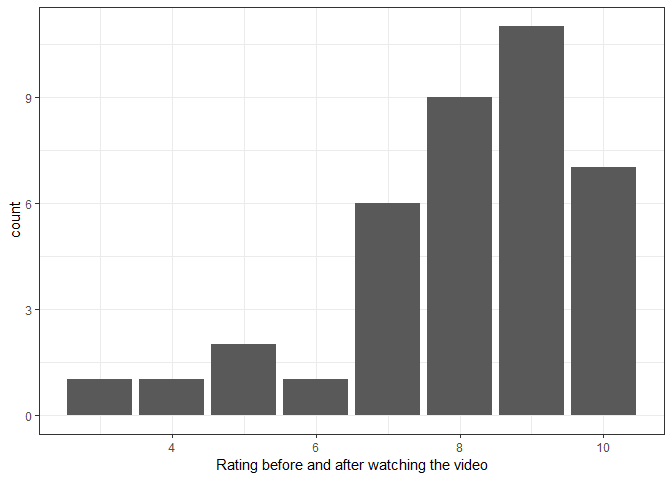
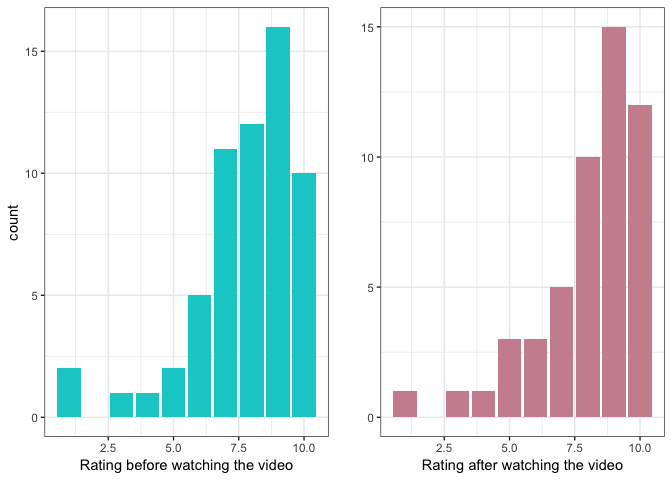
Fix the plot using gridExtra

diff --git a/Milestone2/Milestone2_EDA.md b/Milestone2/Milestone2_EDA.md
@@ -3,17 +3,20 @@ Milestone2\_EDA
 Wilson D., Marcelle C. Kera Y. Heather VT.
 4/5/2019
 
-This dataset is aimed to answer the question "Does a personâs frequency of recycling influence her/his opinion and attitudes towards the importance of sustainability?". The description of columns as follows:
+This dataset is aimed to answer the question “Does a person’s frequency
+of recycling influence her/his opinion and attitudes towards the
+importance of sustainability?”. The description of columns as follows:
 
--   `Q1_1`: How important is being environmentally sustainable to you on a scale from 1-10?
--   `Q2`: How often do you generally recycle?
--   `Q3`: What is your age group?
--   `Q4`: Did you grow up in an environmentally-conscious family?
--   `Q5`: Will you watch the video?
--   `Q6_1`: After watching this video about recycling, how important is sustainability to you on a self-ranked scale from 1-10 scale?
+  - `Q1_1`: How important is being environmentally sustainable to you on
+    a scale from 1-10?
+  - `Q2`: How often do you generally recycle?
+  - `Q3`: What is your age group?
+  - `Q4`: Did you grow up in an environmentally-conscious family?
+  - `Q5`: Will you watch the video?
+  - `Q6_1`: After watching this video about recycling, how important is
+    sustainability to you on a self-ranked scale from 1-10 scale?
 
-Load Data
-=========
+# Load Data
 
 ``` r
 #tidy data and give correct data type
@@ -55,19 +58,32 @@ summary(tidy_data)
     ##  NA's   :9
 
 > Analyzing the summary table, we noticed:
->
-> **Q1\_1: How important is being environmentally sustainable to you on a scale from 1-10?**: on average, people rated sustainability as a 7.7 initially. **Q2: How often do you generally recycle?**:
->
-> **Q3: What is your age group?**: 60% of the participants are from the younger groups, having 20-29 years old. We had a considerable amount of people with 40+, but only 5% of the respondents are 35-39 years old.
->
-> **Q4: Did you grow up in an environmentally-conscious family?**: 46.7% of the respondents grow up in an environmentally-conscious family.
->
-> **Q5: Will you watch the video?**: Only 63% of the respondents confirmed that they watched the video.
->
-> **Q6\_1: After watching this video about recycling, how important is sustainability to you on a self-ranked scale from 1-10 scale?**: The self rank about sustainability importance after watching the video had a slightly higher mean and median than the first one (9 and 8.1 vs. 8 and 7.8, respectively). However, some people who didn't watch the video answered the last question, since we had 15 respondents who said on Q5 that they passed the video, and only 9 participants answered NA to Q6\_1. Weird.
+> 
+> **Q1\_1: How important is being environmentally sustainable to you on
+> a scale from 1-10?**: on average, people rated sustainability as a 7.7
+> initially. **Q2: How often do you generally recycle?**:
+> 
+> **Q3: What is your age group?**: 60% of the participants are from the
+> younger groups, having 20-29 years old. We had a considerable amount
+> of people with 40+, but only 5% of the respondents are 35-39 years
+> old.
+> 
+> **Q4: Did you grow up in an environmentally-conscious family?**: 46.7%
+> of the respondents grow up in an environmentally-conscious family.
+> 
+> **Q5: Will you watch the video?**: Only 63% of the respondents
+> confirmed that they watched the video.
+> 
+> **Q6\_1: After watching this video about recycling, how important is
+> sustainability to you on a self-ranked scale from 1-10 scale?**: The
+> self rank about sustainability importance after watching the video had
+> a slightly higher mean and median than the first one (9 and 8.1 vs. 8
+> and 7.8, respectively). However, some people who didn’t watch the
+> video answered the last question, since we had 15 respondents who said
+> on Q5 that they passed the video, and only 9 participants answered NA
+> to Q6\_1. Weird.
 
-Explanatary Data Analysis
-=========================
+# Explanatary Data Analysis
 
 ``` r
 tidy_data %>% 
@@ -81,9 +97,14 @@ tidy_data %>%
   theme(axis.text.x = element_text(angle = 45, hjust = 1))
 ```
 
-![](Milestone2_EDA_files/imgs/plot%20family%20vs.%20frequency-1.png)
+![](Milestone2_EDA_files/imgs/plot%20family%20vs.%20frequency-1.png)<!-- -->
 
-> As we can see from the above plot, most of our respondent have a good recycling habit whether or not they live in a environmentally-consicous family. However, if one respondent did not grow up in an environmentally-conscious family then he/she may not recycle at all.
+> As we can see from the above plot, most of our respondent have a good
+> recycling habit whether or not they live in a
+> environmentally-consicous family. However, if one respondent did not
+> grow up in an environmentally-conscious family then he/she may not
+> recycle at
+    all.
 
 ``` r
 tidy_data$Q3
@@ -107,7 +128,7 @@ ggplot(tidy_data, aes(Q3)) +
 
     ## Warning: Ignoring unknown parameters: binwidth, bins, pad
 
-![](Milestone2_EDA_files/imgs/age%20distribution-1.png)
+![](Milestone2_EDA_files/imgs/age%20distribution-1.png)<!-- -->
 
 ``` r
 qplot(tidy_data$Q3, tidy_data$Q1_1, geom="boxplot") +
@@ -121,9 +142,18 @@ qplot(tidy_data$Q3, tidy_data$Q1_1, geom="boxplot") +
        axis.title = element_text(size = 13))
 ```
 
-![](Milestone2_EDA_files/imgs/plot%20age%20group%20vs.%20sustainability%20importance%20before%20watching%20the%20video-1.png)
+![](Milestone2_EDA_files/imgs/plot%20age%20group%20vs.%20sustainability%20importance%20before%20watching%20the%20video-1.png)<!-- -->
 
-> Analyzing the boxplots above is easy to see that older people (`35-39` and `40+` groups) consider sustainability more important than younger groups, having a higher mean (~9 in a scale from 1-10) and narrower range. Additionaly, the other 3 groups (`20-24`, `25-29` and `30-34`) have one outlier each, where at least one respondent of each of these groups evaluated sustainability with a considerable lower importance in comparison with the other participants from their respective group. However, it's important to take into account that we have fewer responses from the second oldest age group, which can distort the analysis. Further analysis with confidence intervals is warranted.
+> Analyzing the boxplots above is easy to see that older people (`35-39`
+> and `40+` groups) consider sustainability more important than younger
+> groups, having a higher mean (~9 in a scale from 1-10) and narrower
+> range. Additionaly, the other 3 groups (`20-24`, `25-29` and `30-34`)
+> have one outlier each, where at least one respondent of each of these
+> groups evaluated sustainability with a considerable lower importance
+> in comparison with the other participants from their respective group.
+> However, it’s important to take into account that we have fewer
+> responses from the second oldest age group, which can distort the
+> analysis. Further analysis with confidence intervals is warranted.
 
 ``` r
 tidy_data %>% filter(Q5 %in% 'Have watched') %>% 
@@ -137,7 +167,7 @@ tidy_data %>% filter(Q5 %in% 'Have watched') %>%
   theme_bw()
 ```
 
-![](Milestone2_EDA_files/imgs/unnamed-chunk-1-1.png)
+![](Milestone2_EDA_files/imgs/unnamed-chunk-1-1.png)<!-- -->
 
 ``` r
 tidy_data %>% filter(Q5 %in% 'Have watched') %>% 
@@ -151,26 +181,30 @@ tidy_data %>% filter(Q5 %in% 'Have watched') %>%
   theme_bw()
 ```
 
-![](Milestone2_EDA_files/imgs/unnamed-chunk-1-2.png)
+![](Milestone2_EDA_files/imgs/unnamed-chunk-1-2.png)<!-- -->
 
-> The respondents changed their opinion on how sustainable they think they are in the positive direction. There were only two respondents who scored less after watching the video .Respondents scored more after the watching the video are the ones recycle usually. Respondents score does not appear to be affected by age group, there may be other underlying confounding factors in which we did not capture in our data collection.
+> The respondents changed their opinion on how sustainable they think
+> they are in the positive direction. There were only two respondents
+> who scored less after watching the video .Respondents scored more
+> after the watching the video are the ones recycle usually. Respondents
+> score does not appear to be affected by age group, there may be other
+> underlying confounding factors in which we did not capture in our data
+> collection.
 
 ``` r
-#ggplot(mtcars, aes(factor(cyl), fill = factor(vs))) +
- # geom_bar(position = "dodge2")
-
-library(forcats)
-#as.factor(tidy_data$Q1_1)
-#as.factor(tidy_data$Q6_1)
-tidy_data %>% 
-  filter(Q5 %in% 'Have watched') %>% 
-  #Q1_1= as.factor(Q1_1)
-  #Q6_1= as.factor(Q6_1)
-  #before_vs_after = factor(Q1_1) %>%
-  ggplot(aes(Q1_1, fill = Q6_1)) +
-  geom_bar(position= "dodge2") +
-  labs(x = "Rating before and after watching the video") +
+p1 <- tidy_data %>% 
+  ggplot(aes(Q1_1)) +
+  geom_bar(fill = "cyan3") +
+  labs(x = "Rating before watching the video") +
   theme_bw()
+
+p2 <- tidy_data %>% 
+  ggplot(aes(Q6_1)) +
+  geom_bar(fill = "pink3") +
+  labs(x = "Rating after watching the video", y = "") +
+  theme_bw()
+
+grid.arrange(p1, p2, nrow = 1)
 ```
 
-![](Milestone2_EDA_files/imgs/grouped%20bar-1.png)
+![](Milestone2_EDA_files/imgs/grouped%20bar-1.png)<!-- -->

diff --git a/README.md b/README.md
@@ -23,4 +23,4 @@
 
   - `R` version 3.5.1
   - `tidyverse` version 1.2.1
-
+  - `gridExtra` version 2.3
